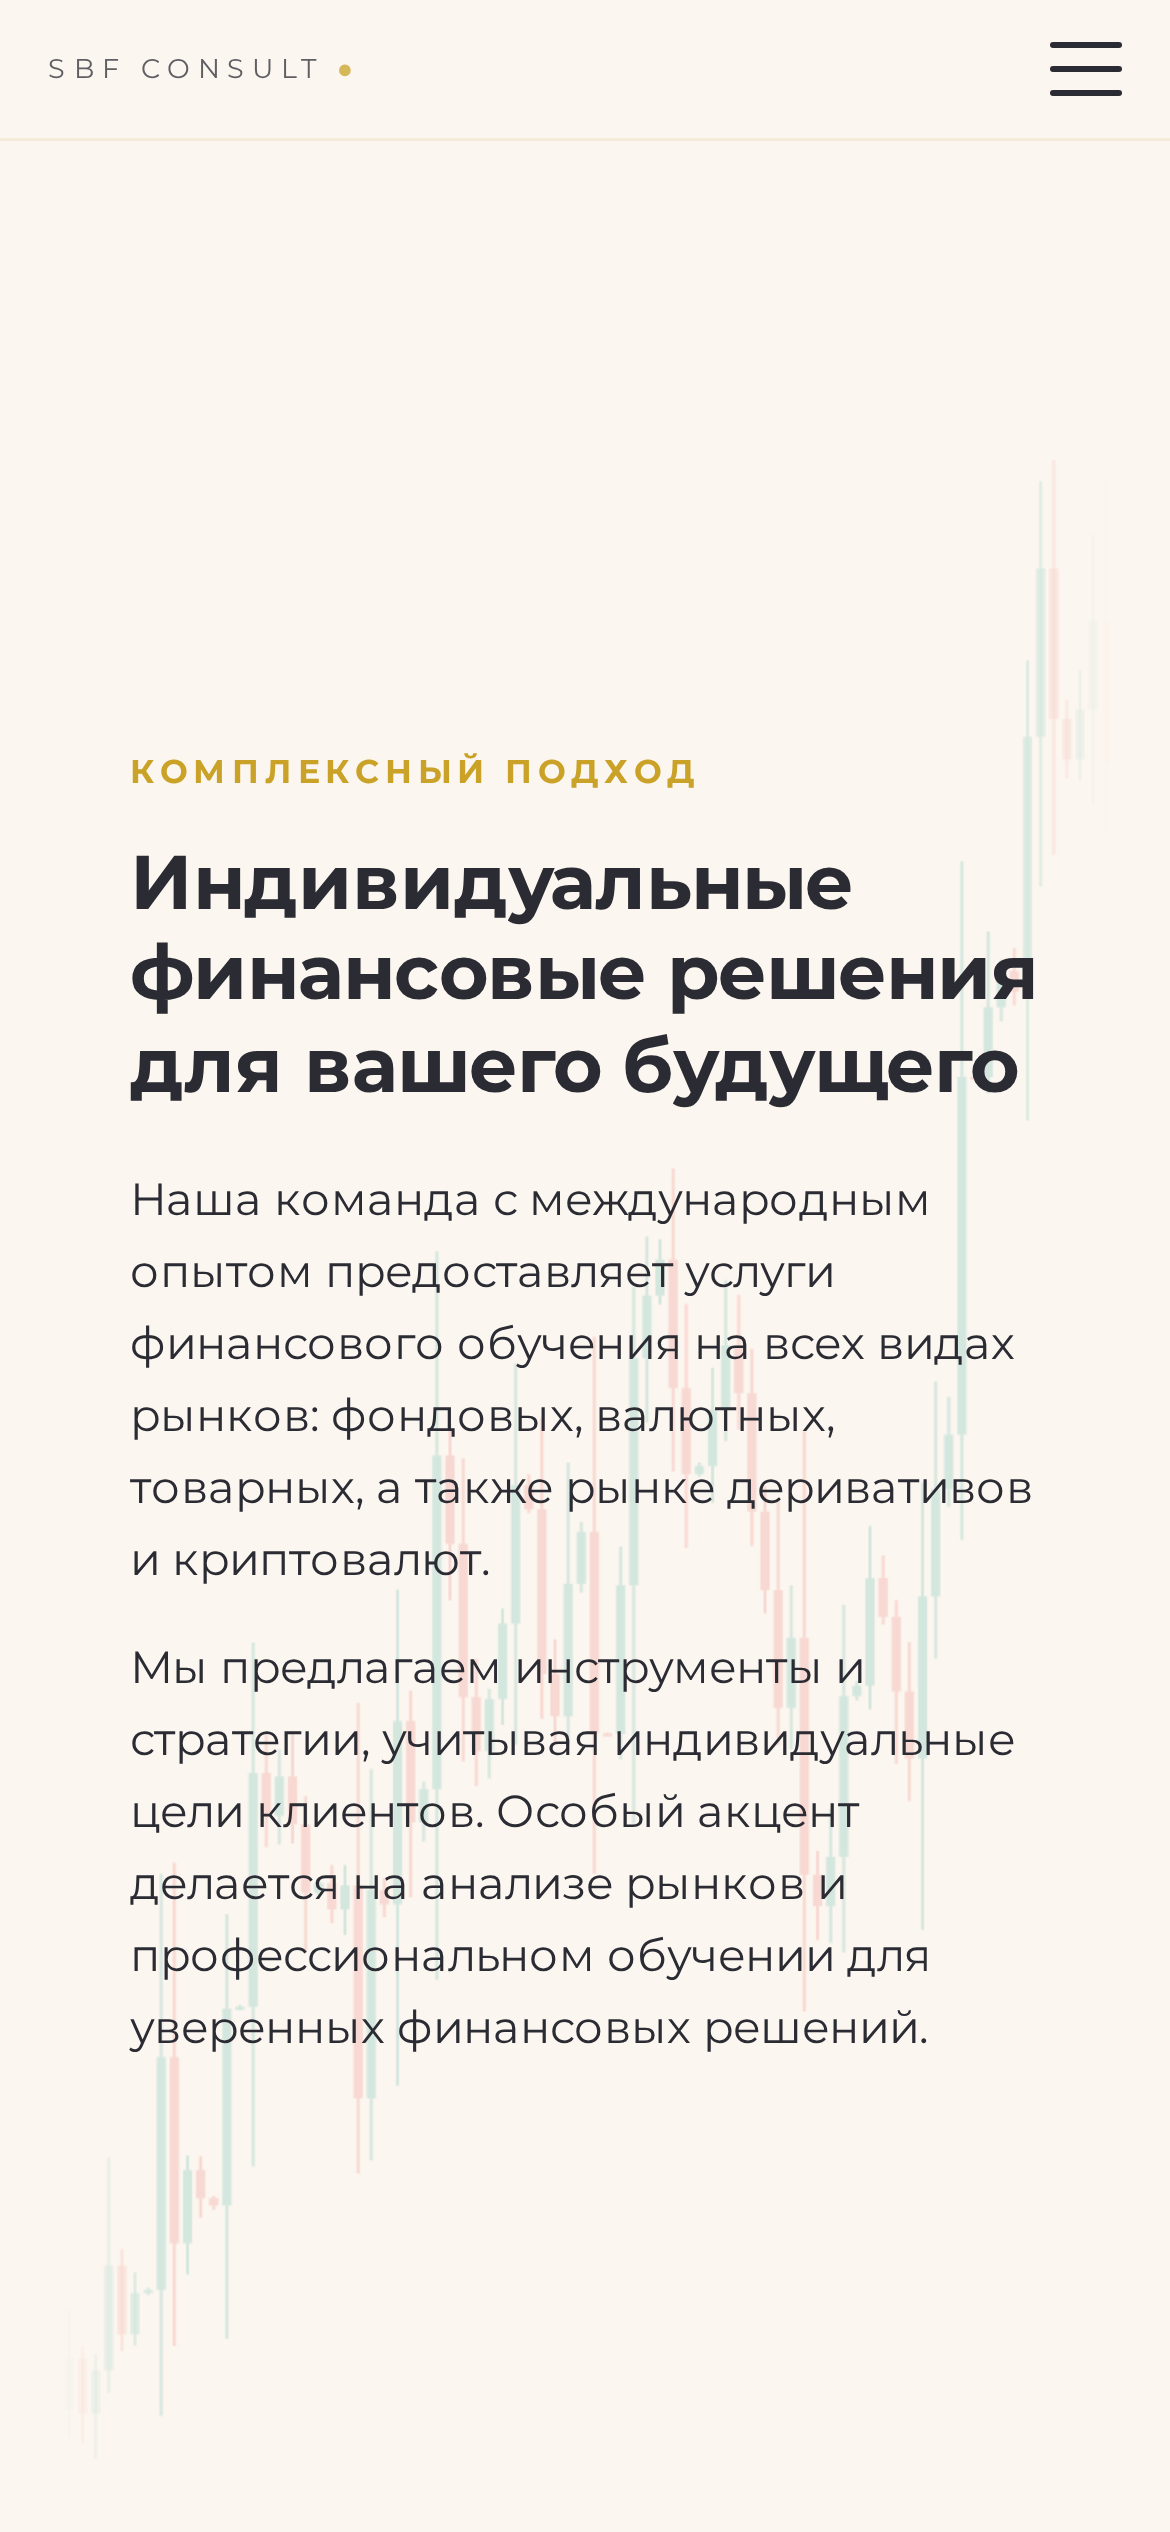
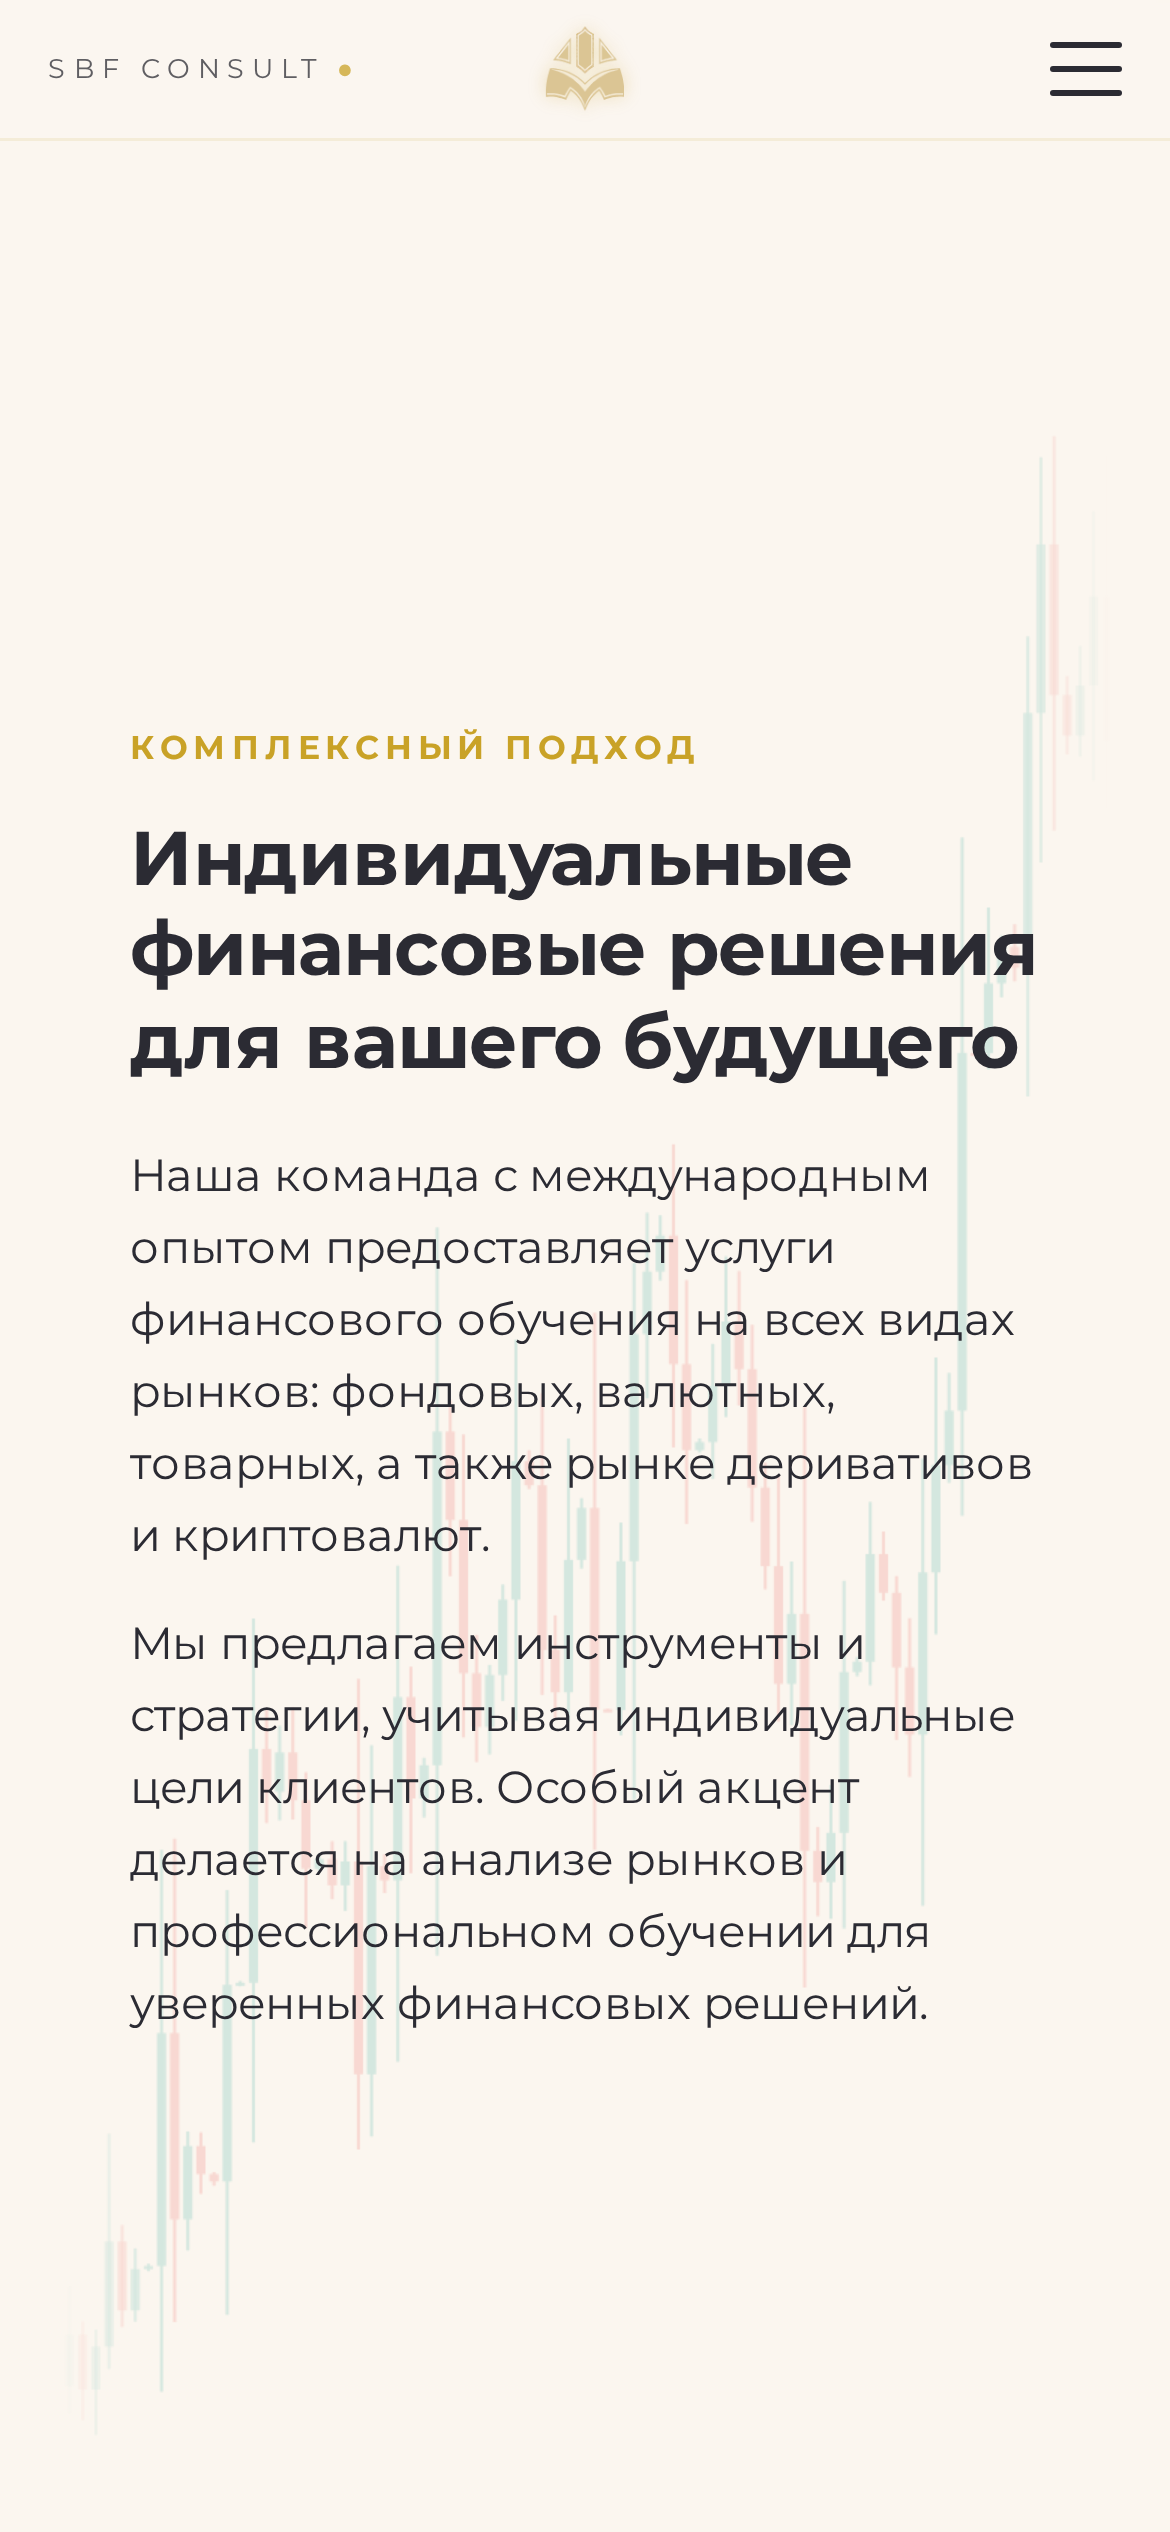
Узкие экраны: убрана пустота, ореол привязан к знаку, знак вернулся в шапку
Ореол в центре планшета: main.js включает CoreEngine с 768px, а знак был
скрыт до 900. Скрытый элемент отдаёт нулевой прямоугольник, _followLogo
выходил, и координаты оставались от прошлого кадра — свечение висело
посреди экрана без логотипа. Теперь GlowLayer не рисует, когда знака нет.

Пустота между блоками: min-height 100vh держал секции во весь экран
независимо от содержимого — на планшете услуги занимали 1164px при
455px контента. Снято для узких экранов, отступы урезаны.

Знак на узких экранах больше не прячется: он в центре шапки с кольцом
занятости. В углу страницы он ложился поверх текста, а в шапке место
есть всегда.

diff --git a/css/scroll-mode.css b/css/scroll-mode.css
@@ -57,3 +57,56 @@ html { scroll-behavior: smooth; }
     padding-bottom: 48px;
   }
 }
+
+
+/* ── Узкие экраны: секция ровно по содержимому ───────────────────────────
+   `min-height: 100vh` держал каждую секцию во весь экран независимо от
+   того, сколько в ней текста. На телефоне и планшете это давало пустые
+   поля между блоками в половину экрана: замер показывал секции по
+   1024–1172px там, где содержимого на 600. В режиме обычного скролла
+   растягивать нечего — высоту задаёт контент. */
+@media (max-width: 1023px) {
+  .snap-stop {
+    min-height: 0;
+    /* Меньше воздуха между блоками: на узком экране 140px пустоты между
+       секциями читаются как «страница кончилась». */
+    padding-top: calc(var(--nav-h, 46px) + 14px) !important;
+    padding-bottom: 40px !important;
+  }
+  /* Первому экрану полная высота нужна — это первое впечатление.
+     Финалу тоже: под ним карта контактов во весь экран. */
+  #act-map, #act-contact { min-height: 100vh; }
+
+  /* Мобильная раскладка услуг тоже держала 100vh и давала до 300px пустоты
+     под карточками партнёров: фоновый знак в ней позиционирован абсолютно
+     и высоту не занимает, растягивал блок именно min-height. */
+  .service-corona-mobile,
+  .service-stop { min-height: 0 !important; }
+}
+
+/* ── Знак на узких экранах ───────────────────────────────────────────────
+   Раньше он тут просто скрывался, и вся его роль пропадала: на телефоне
+   пользователь не видел ни кольца занятости, ни того, что знак кликабелен.
+   Возвращаем компактным значком в левом нижнем углу — правый занят
+   кнопкой «Связаться». Кольцо остаётся: именно оно показывает, чем знак
+   занят на этом экране. Подпись убрана — для неё нет места. */
+@media (max-width: 900px) {
+  /* Значок уезжает в шапку, а не в угол страницы: в углу он ложился
+     поверх текста, а страница длинная и «свободного угла» на ней нет.
+     В шапке между брендом и бургером место есть всегда, знак не
+     перекрывает содержимое и виден на любом экране. */
+  #sbf-logo {
+    display: grid !important;
+    position: fixed !important;
+    top: calc(var(--nav-h, 46px) / 2) !important;
+    left: 50% !important;
+    bottom: auto !important;
+    transform: translate(-50%, -50%) !important;
+    z-index: 501;            /* над шапкой: у неё z-index 500 */
+  }
+  #sbf-logo-img { width: 26px !important; }
+  /* Кольцо занятости остаётся — именно оно показывает роль текущей секции */
+  #logo-ring { width: 190%; height: 190%; }
+  #logo-ring .ring-fill { stroke-width: 3; }
+  .logo-hint { display: none; }
+}

diff --git a/js/core-engine.js b/js/core-engine.js
@@ -21,7 +21,8 @@ export class CoreEngine {
        находится логотип. Теперь центр берётся из самого знака. */
     this.cx = 0;
     this.cy = 0;
-    this.logoR = 60;   // половина ширины знака — по ней масштабируется свечение
+    this.logoR = 60;
+    this.logoVisible = false;   // половина ширины знака — по ней масштабируется свечение
   }
 
   init() {
@@ -132,9 +133,13 @@ export class CoreEngine {
      координаты из трёх мест. */
   _followLogo() {
     const el = document.getElementById('sbf-logo');
-    if (!el) return;
-    const r = el.getBoundingClientRect();
-    if (!r.width) return;
+    const r = el ? el.getBoundingClientRect() : null;
+    /* Скрытый элемент отдаёт нулевой прямоугольник. Раньше мы просто
+       выходили, и координаты оставались от прошлого кадра — на планшете,
+       где знак скрыт с 900px, а движок включается с 768, ореол повисал
+       посреди экрана без всякого логотипа. */
+    this.logoVisible = !!(r && r.width);
+    if (!this.logoVisible) return;
     this.cx = r.left + r.width / 2;
     this.cy = r.top + r.height / 2;
     this.logoR = r.width / 2;

diff --git a/css/mobile-fixes.css b/css/mobile-fixes.css
@@ -96,14 +96,8 @@
   #act-grow .forecasts-threads { display: none; }
 }
 
-/* ── Знак на узких экранах ───────────────────────────────────────────────
-   В styles.css он уже скрыт правилом внутри @media (max-width: 1023px);
-   здесь повторяем явно, чтобы при чтении этого файла было видно: роли и
-   кольцо занятости — история только про широкие экраны. На узких у услуг
-   своя разметка (.service-corona-mobile) со своей подложкой-логотипом. */
-@media (max-width: 900px) {
-  #sbf-logo { display: none !important; }
-}
+/* Знак на узких экранах не прячется, а становится компактным значком —
+   см. css/scroll-mode.css. Здесь раньше стояло `display: none`. */
 
 
 /* ── Невысокие экраны на десктопе ────────────────────────────────────────

diff --git a/css/styles.css b/css/styles.css
@@ -2955,7 +2955,8 @@ body.act-act-team-active #sbf-logo-img {
   .map-attribution, .leaflet-control-attribution { display: none !important; }
 
   /* ══ Лого: скрыто на мобиле (перемещается со скроллом — не эффектно) ══ */
-  #sbf-logo { display: none !important; }
+  /* Знак виден и на узких экранах — компактным значком,
+     правила в css/scroll-mode.css. Было: display: none. */
 
   /* ══ Hero: CTA по центру, overlay чуть выше ══════════════ */
   .map-headline-overlay-bottom { bottom: 20% !important; }

diff --git a/js/glow-layer.js b/js/glow-layer.js
@@ -22,6 +22,9 @@ export class GlowLayer {
   }
 
   draw(ctx) {
+    /* Свечение — аура знака. Знака нет на экране (узкие ширины) — рисовать
+       нечего, иначе останется пятно посреди пустого места. */
+    if (!this.engine.logoVisible) return;
     const { cx, cy, logoR } = this.engine;
     /* Радиус считаем от знака, а не от экрана. Раньше было
        min(W, H) * 0.22 — на 1119px это корона в 246px, которая оставалась
